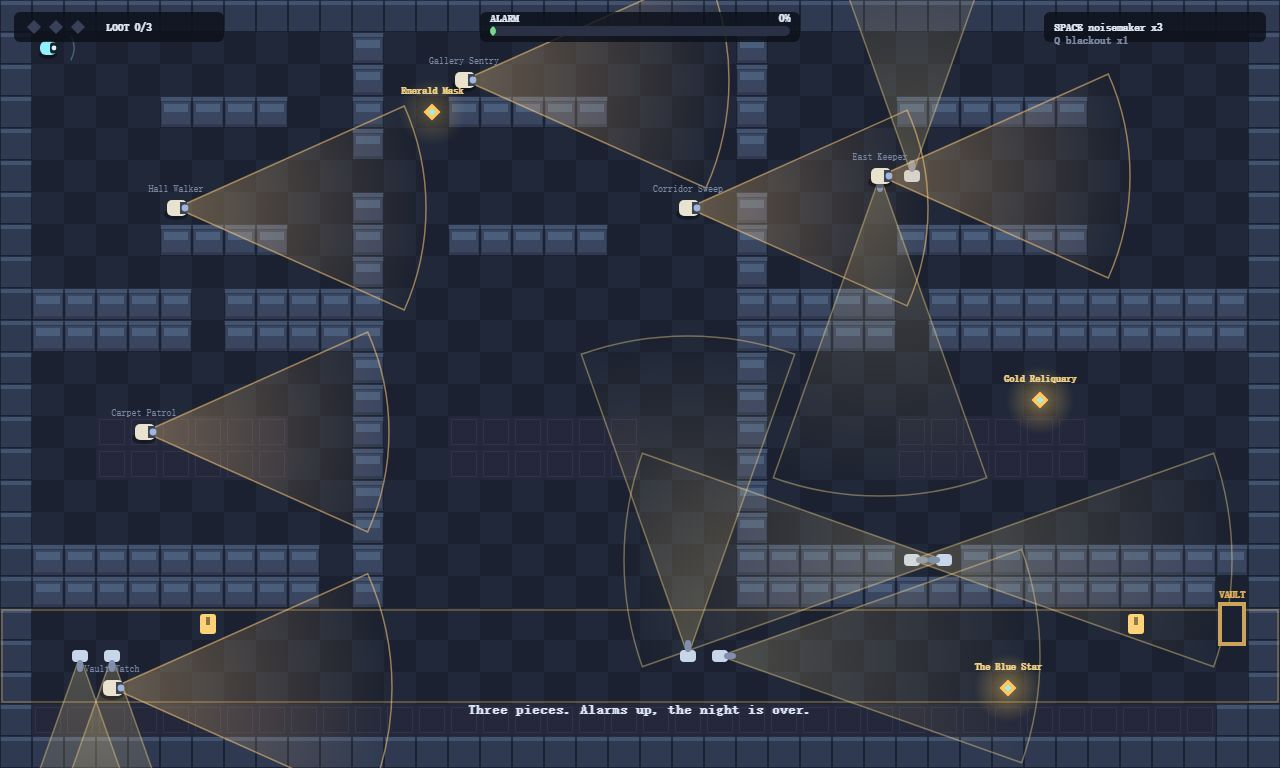
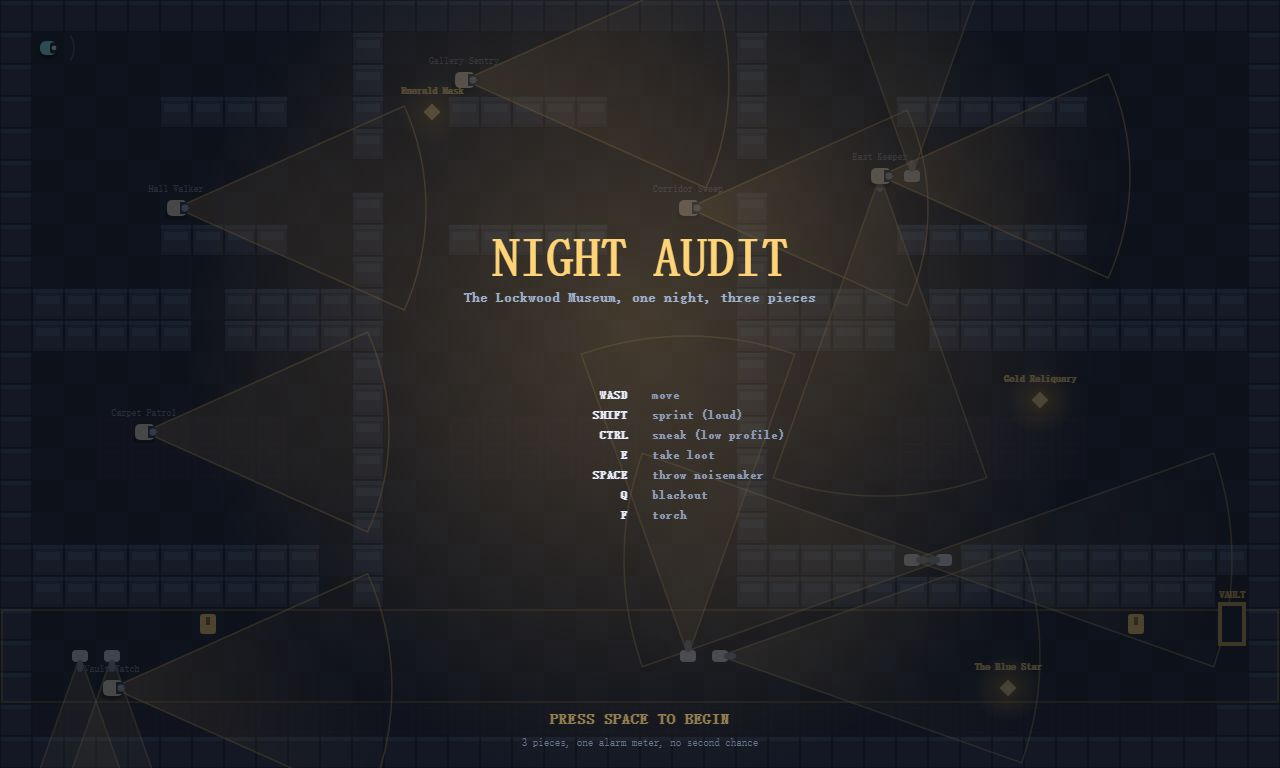
Let the title card sit over the live room so the cover shows the heist, not just a menu

diff --git a/game/src/title.js b/game/src/title.js
@@ -5,14 +5,18 @@ import { W, H, config } from './config.js';
 const TITLE = 'NIGHT AUDIT';
 const SUB = 'The Lockwood Museum, one night, three pieces';
 
-export function drawTitle(ctx, t) {
-  ctx.fillStyle = 'rgba(8, 11, 18, 0.86)';
+// Draws the title card over a live room, so a player waiting on the menu already
+// sees what the night looks like: cones sweeping, cameras panning, loot glowing.
+export function drawTitle(ctx, t, room) {
+  if (room) room(ctx);
+
+  ctx.fillStyle = 'rgba(8, 11, 18, 0.72)';
   ctx.fillRect(0, 0, W, H);
 
   // a slow amber sweep behind the title, the same colour as a guard's cone
   const cx = W * 0.5 + Math.sin(t * 0.35) * 120;
   const grad = ctx.createRadialGradient(cx, H * 0.42, 20, cx, H * 0.42, 460);
-  grad.addColorStop(0, 'rgba(255, 196, 110, 0.20)');
+  grad.addColorStop(0, 'rgba(255, 196, 110, 0.22)');
   grad.addColorStop(1, 'rgba(255, 196, 110, 0)');
   ctx.fillStyle = grad;
   ctx.fillRect(0, 0, W, H);
@@ -21,7 +25,7 @@ export function drawTitle(ctx, t) {
   ctx.fillStyle = '#ffd479';
   ctx.font = 'bold 52px ui-monospace, monospace';
   ctx.fillText(TITLE, W / 2, H * 0.36);
-  ctx.fillStyle = '#8fa0c0';
+  ctx.fillStyle = '#9fb0cc';
   ctx.font = 'bold 14px ui-monospace, monospace';
   ctx.fillText(SUB, W / 2, H * 0.36 + 26);
 
@@ -41,7 +45,7 @@ export function drawTitle(ctx, t) {
     ctx.fillStyle = '#e8eefb';
     ctx.fillText(k, W / 2 - 12, y);
     ctx.textAlign = 'left';
-    ctx.fillStyle = '#7d8aa6';
+    ctx.fillStyle = '#8d9bb7';
     ctx.fillText(d, W / 2 + 12, y);
   });
 
@@ -49,7 +53,7 @@ export function drawTitle(ctx, t) {
   ctx.fillStyle = `rgba(255, 212, 121, ${0.55 + 0.45 * Math.sin(t * 3)})`;
   ctx.font = 'bold 15px ui-monospace, monospace';
   ctx.fillText('PRESS SPACE TO BEGIN', W / 2, H - 44);
-  ctx.fillStyle = '#5d6a85';
+  ctx.fillStyle = '#6b7894';
   ctx.font = '11px ui-monospace, monospace';
   ctx.fillText(`${config.lootGoal} pieces, one alarm meter, no second chance`, W / 2, H - 22);
 }

diff --git a/game/src/main.js b/game/src/main.js
@@ -3,8 +3,8 @@
 import { W, H } from './config.js';
 import { createInput } from './input.js';
 import { createGame } from './sim.js';
-import { draw } from './render.js';
-import { drawTitle } from './title.js';
+import { draw, drawTitleRoom } from './render.js';
+
 import { SHOTS } from './shots.js';
 
 function makeCanvas() {
@@ -52,6 +52,8 @@ function startWith(shot) {
 }
 
 if (scripted) startWith(shotName);
+// A scripted title still must actually be on the title card, not the room behind it.
+if (scripted && shotName === 'start') mode = 'title';
 
 const input = createInput(canvas || { addEventListener() {} });
 let last = 0;
@@ -66,7 +68,7 @@ function frame(now) {
 
   if (scripted) {
     // a scripted still: hold the pose and let the cones drift slowly
-    if (mode === 'title') drawTitle(ctx, elapsed);
+    if (mode === 'title') drawTitle(ctx, elapsed, (c) => drawTitleRoom(c, game));
     else {
       game.update(dt * 0.25, input);
       draw(ctx, game);
@@ -76,7 +78,7 @@ function frame(now) {
   }
 
   if (mode === 'title') {
-    drawTitle(ctx, elapsed);
+    drawTitle(ctx, elapsed, (c) => drawTitleRoom(c, game));
     if (input.took(' ') || input.took('Enter')) reset();
     input.endFrame();
     requestAnimationFrame(frame);
@@ -100,7 +102,7 @@ function frame(now) {
 // A headless browser may screenshot before any requestAnimationFrame callback runs,
 // so the first picture must not wait for one.
 if (ctx) {
-  if (mode === 'title') drawTitle(ctx, 0);
+  if (mode === 'title') drawTitle(ctx, 0, (c) => drawTitleRoom(c, game));
   else draw(ctx, game);
 }
 if (frozen) {

diff --git a/work/cover.html b/work/cover.html
@@ -1,0 +1,20 @@
+<!doctype html>
+<html><body style="margin:0;background:#0a0d15">
+<canvas id="c" width="1280" height="768"></canvas>
+<script type="module">
+// Renders the title card over the live room exactly as the game draws it, and
+// records the canvas to a PNG the screenshot tool saves. Used for the cover only.
+const cfg = await import('./src/config.js');
+const sim = await import('./src/sim.js');
+const rend = await import('./src/render.js');
+const title = await import('./src/title.js');
+
+const canvas = document.getElementById('c');
+const ctx = canvas.getContext('2d');
+const game = sim.createGame();
+title.drawTitle(ctx, 0, (cc) => rend.drawTitleRoom(cc, game));
+
+// keep a PNG of this exact frame so the shooter can save it byte for byte
+window.__cover = canvas.toDataURL('image/png');
+document.title = 'cover-ready';
+</script></body></html>

diff --git a/game/src/render.js b/game/src/render.js
@@ -308,6 +308,18 @@ function drawHud(ctx, game) {
   }
 }
 
+// The room behind the title card: the same night, without the HUD.
+export function drawTitleRoom(ctx, game) {
+  drawRoom(ctx);
+  drawCoverCases(ctx);
+  drawBreakers(ctx, game);
+  drawCameras(ctx, game);
+  drawGuards(ctx, game);
+  drawLoot(ctx, game);
+  drawExit(ctx, game);
+  drawThief(ctx, game);
+}
+
 export function draw(ctx, game) {
   ctx.clearRect(0, 0, W, H);
   drawRoom(ctx);
@@ -319,7 +331,6 @@ export function draw(ctx, game) {
   drawExit(ctx, game);
   drawThief(ctx, game);
   drawHud(ctx, game);
-
   if (game.state.phase === 'caught') {
     ctx.fillStyle = 'rgba(40, 0, 0, 0.55)';
     ctx.fillRect(0, 0, W, H);
